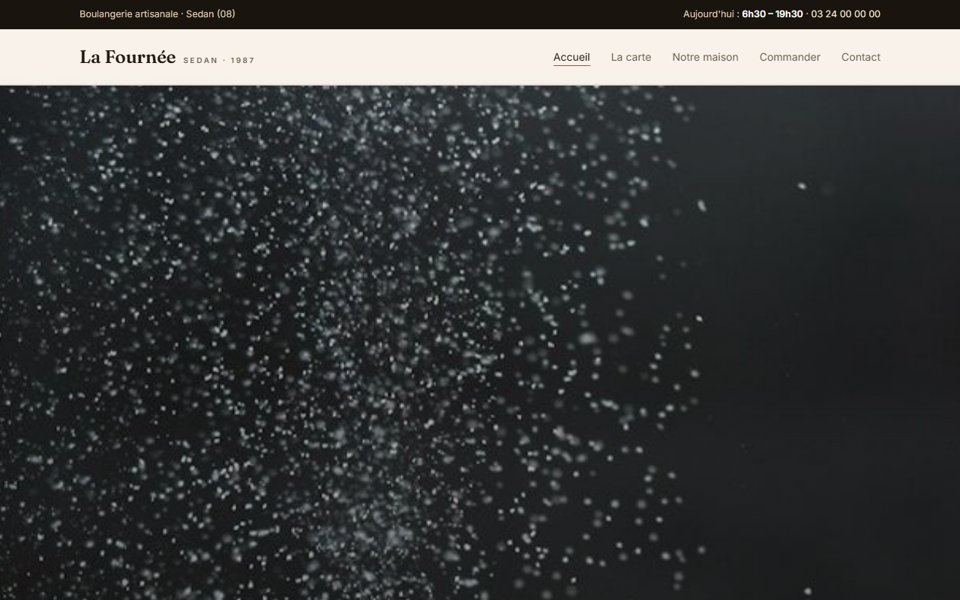
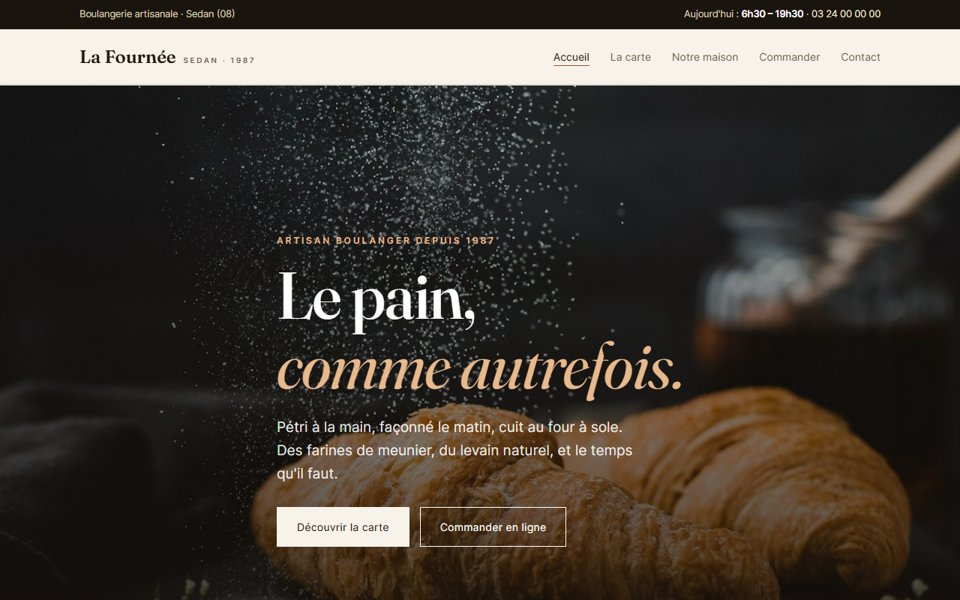
Vignette boulangerie régénérée (nouveau site) + cache-bust image + ouverture projets directement en plein écran

diff --git a/assets/js/bomyos.js b/assets/js/bomyos.js
@@ -19,7 +19,7 @@ const ICON={
 };
 /* ==== VITRINE — les flagships (édite ici) ==== */
 const PROJECTS={
-  boulangerie:{name:"La Fournée de Sedan",cat:"Démo — site de commerce",img:"assets/shots/boulangerie.jpg",grad:"linear-gradient(135deg,#8a5a1c,#c8892e 55%,#f2d06b)",role:"Exemple pour commerçants & indépendants",year:"2026",client:"Démonstration",tags:["Site vitrine","Click & Collect","Responsive","Fait main"],link:"https://jimmybomy.fr/projets/demo-boulangerie/",desc:"Un exemple concret de ce que votre commerce pourrait avoir : site vitrine soigné, carte éditoriale, click & collect interactif, horaires, avis, plan d'accès. La boulangerie est fictive — mais votre site pourrait ressembler à ça, en partant d'une maquette gratuite."},
+  boulangerie:{name:"La Fournée de Sedan",cat:"Démo — site de commerce",img:"assets/shots/boulangerie.jpg?v=2",grad:"linear-gradient(135deg,#8a5a1c,#c8892e 55%,#f2d06b)",role:"Exemple pour commerçants & indépendants",year:"2026",client:"Démonstration",tags:["Site vitrine","Click & Collect","Responsive","Fait main"],link:"https://jimmybomy.fr/projets/demo-boulangerie/",desc:"Un exemple concret de ce que votre commerce pourrait avoir : site vitrine soigné, carte éditoriale, click & collect interactif, horaires, avis, plan d'accès. La boulangerie est fictive — mais votre site pourrait ressembler à ça, en partant d'une maquette gratuite."},
   rois:{name:"Rois de France",cat:"Encyclopédie web · PHP/MySQL",img:"assets/shots/rois.jpg",grad:"linear-gradient(135deg,#3a2410,#c8892e 55%,#f2d06b)",role:"Conception, back & front",year:"2025",client:"SAÉ 203 · BUT MMI — noté 18,1/20",tags:["PHP","MySQL","Sécurité XSS/SQL","Lighthouse","VPS"],link:"https://jimmybomy.fr/projets/rois/",desc:"Encyclopédie web sur les monarques de France, de Clovis à Napoléon III : 64 fiches dynamiques, quiz, recherche, sécurisation des formulaires (XSS / injections SQL) et audit Lighthouse. PHP/MySQL, déployé sur mon VPS."},
   lumina:{name:"Lumina Studio",cat:"Agence événementielle · site",img:"assets/shots/lumina.jpg",grad:"linear-gradient(135deg,#0e1a3a,#2563eb 55%,#7cc4ff)",role:"Direction artistique & développement",year:"2025",client:"SAÉ 202 · BUT MMI",tags:["HTML/CSS","JavaScript","Direction artistique"],link:"https://jimmybomy.fr/projets/lumina/",desc:"Site d'une agence créative et événementielle basée à Troyes — « là où la nuit devient expérience ». Design dark élégant, présentation de l'agence et de ses prestations immersives, avec son escape game Backrooms en projet phare."},
   backrooms:{name:"Backrooms",cat:"Escape game · site immersif",img:"assets/shots/backrooms.jpg",grad:"linear-gradient(135deg,#1a1400,#3a3000 60%,#c6a800)",role:"Design & développement",year:"2025",client:"SAÉ 202 · BUT MMI",tags:["HTML/CSS","JavaScript","Ambiance & UX"],link:"https://jimmybomy.fr/projets/backrooms/",desc:"Site de l'escape game de Lumina Studio, inspiré de la légende urbaine des Backrooms : ambiance horreur/liminale, présentation du concept, des salles et réservation. Le pendant immersif du site agence."},
@@ -339,6 +339,8 @@ function openSite(url,title){
   el.querySelector('[data-act="max"]').addEventListener("click",e=>{e.stopPropagation();maxApp(key);});
   el.querySelector('[data-act="full"]').addEventListener("click",e=>{e.stopPropagation();toggleFull(el);});
   makeDraggable(el,key);makeResizable(el,key);
+  // ouverture directe en vrai plein écran (déclenché par le clic utilisateur)
+  if(innerWidth>720){try{const rq=el.requestFullscreen||el.webkitRequestFullscreen;if(rq){const pr=rq.call(el);if(pr&&pr.catch)pr.catch(()=>{});}}catch(e){}}
 }
 function toggleFull(el){
   if(document.fullscreenElement){document.exitFullscreen&&document.exitFullscreen();return;}

diff --git a/index.html b/index.html
@@ -210,6 +210,6 @@
 
 <div id="printCV" aria-hidden="true"></div>
 
-<script src="assets/js/bomyos.js?v=5"></script>
+<script src="assets/js/bomyos.js?v=6"></script>
 </body>
 </html>

diff --git a/sw.js b/sw.js
@@ -1,5 +1,5 @@
 /* BomyOS service worker — HTML réseau d'abord, assets cache d'abord */
-const CACHE = "bomyos-v6";
+const CACHE = "bomyos-v7";
 const CORE = ["/", "/assets/css/bomyos.css", "/assets/js/bomyos.js", "/apple-touch-icon.png", "/icon-192.png", "/icon-512.png"];
 
 self.addEventListener("install", e => {